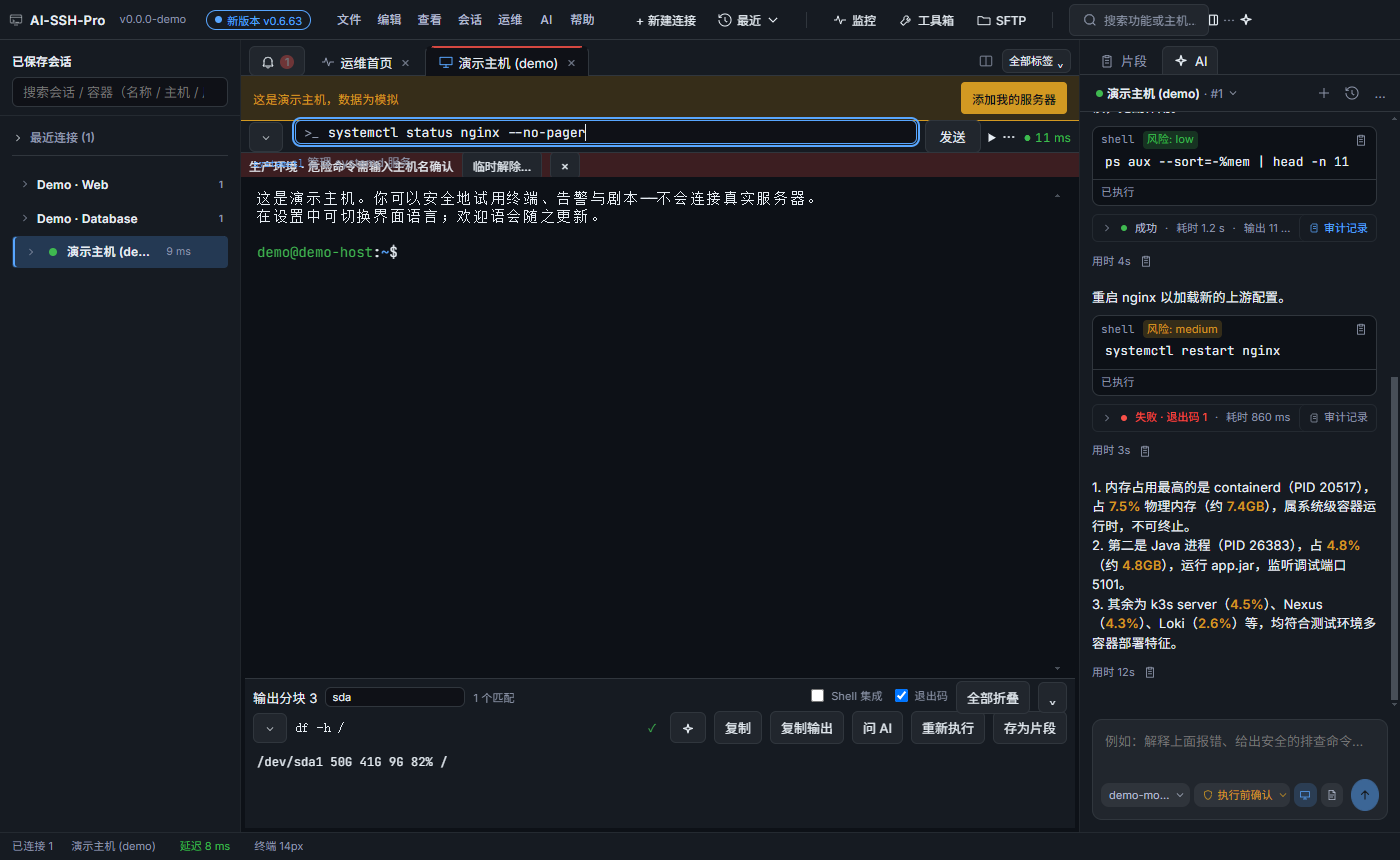
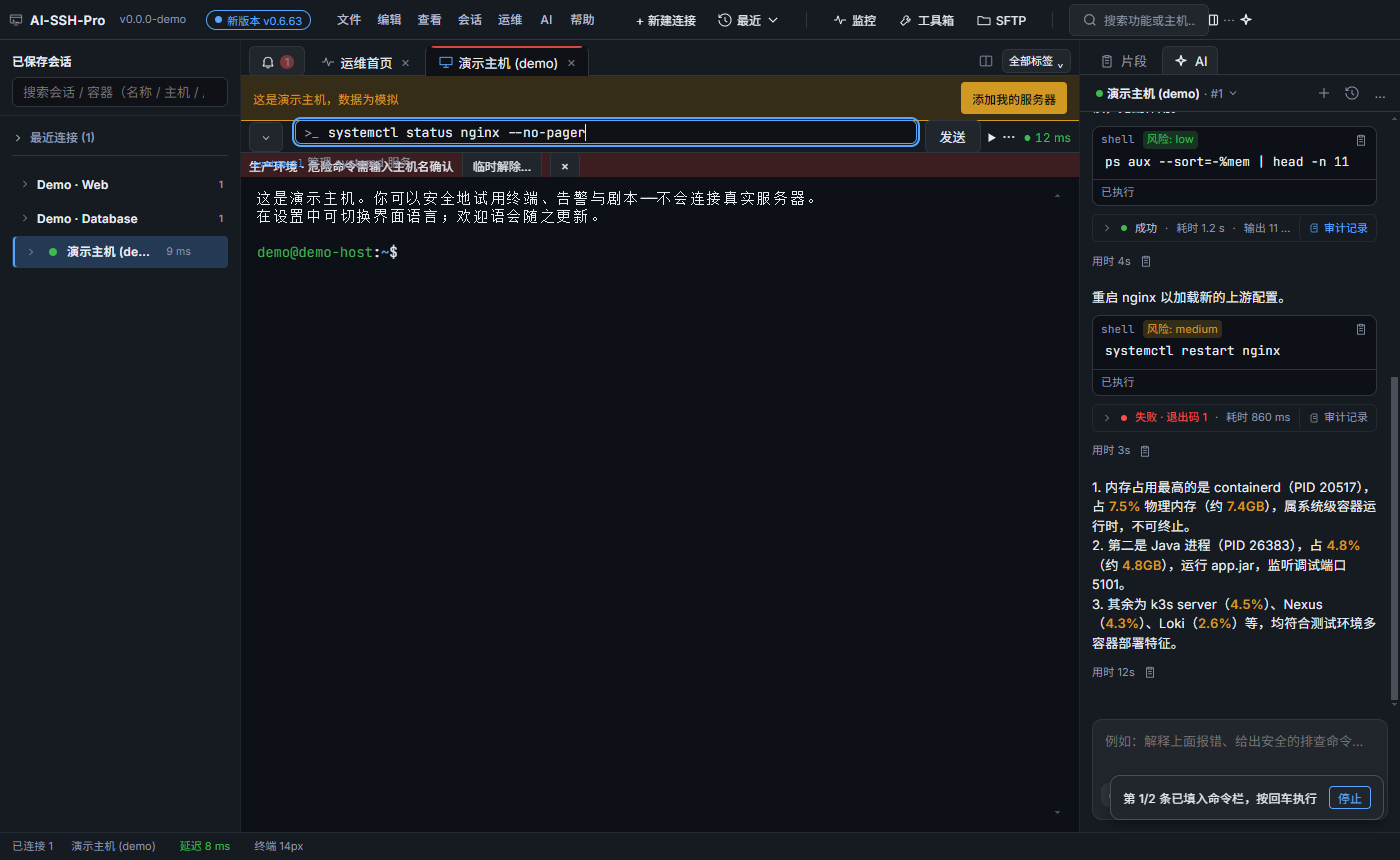
fix(toast): keep action buttons on one line; refresh c10 shots

diff --git a/src/renderer/src/features.css b/src/renderer/src/features.css
@@ -1715,8 +1715,8 @@ button.linkish { background: none; border: none; color: var(--accent); cursor: p
 .pf5-actions button { white-space: nowrap; }
 .pf5-details { font-size: var(--fs-xs); color: var(--color-text-muted); }
 .pf5-details pre { white-space: pre-wrap; margin: var(--space-1) 0 0; font-family: var(--font-mono); }
-.toast-actions { display: inline-flex; gap: var(--space-2); flex-wrap: nowrap; margin-left: auto; }
-.toast-actions button { margin-left: 0; }
+.toast-actions { display: inline-flex; gap: var(--space-2); flex-wrap: nowrap; flex-shrink: 0; margin-left: auto; }
+.toast-actions button { margin-left: 0; white-space: nowrap; }
 .s1b-export { display: flex; flex-direction: column; gap: 8px; min-width: 0; }
 .s1b-field { font-size: 12px; color: var(--muted); }
 .s1b-range, .s1b-filters, .s1b-dates, .s1b-format { display: flex; align-items: center; gap: 6px; flex-wrap: nowrap; min-width: 0; overflow: hidden; }
